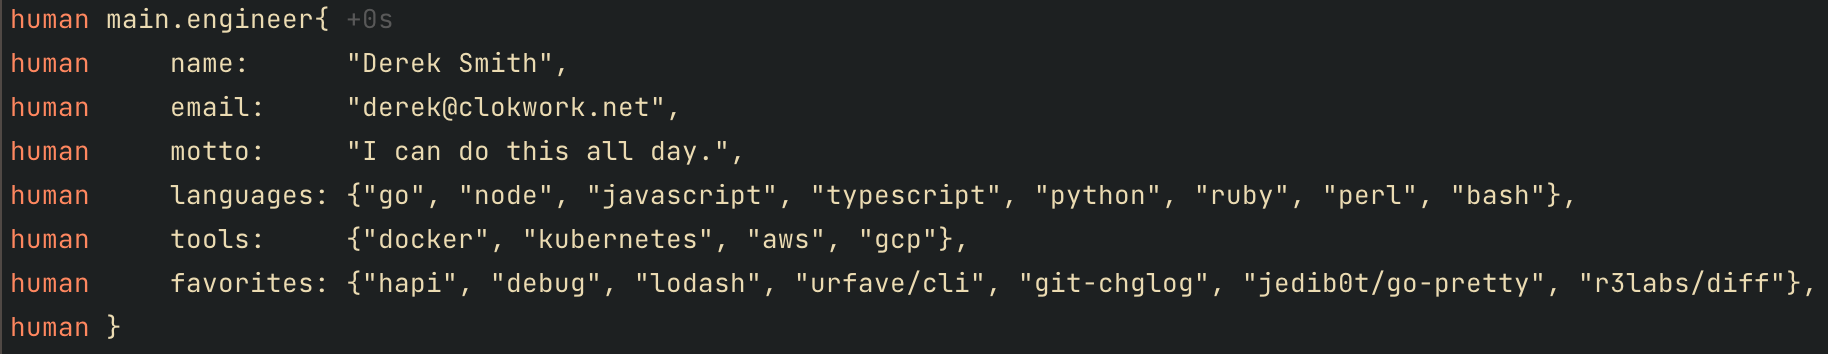
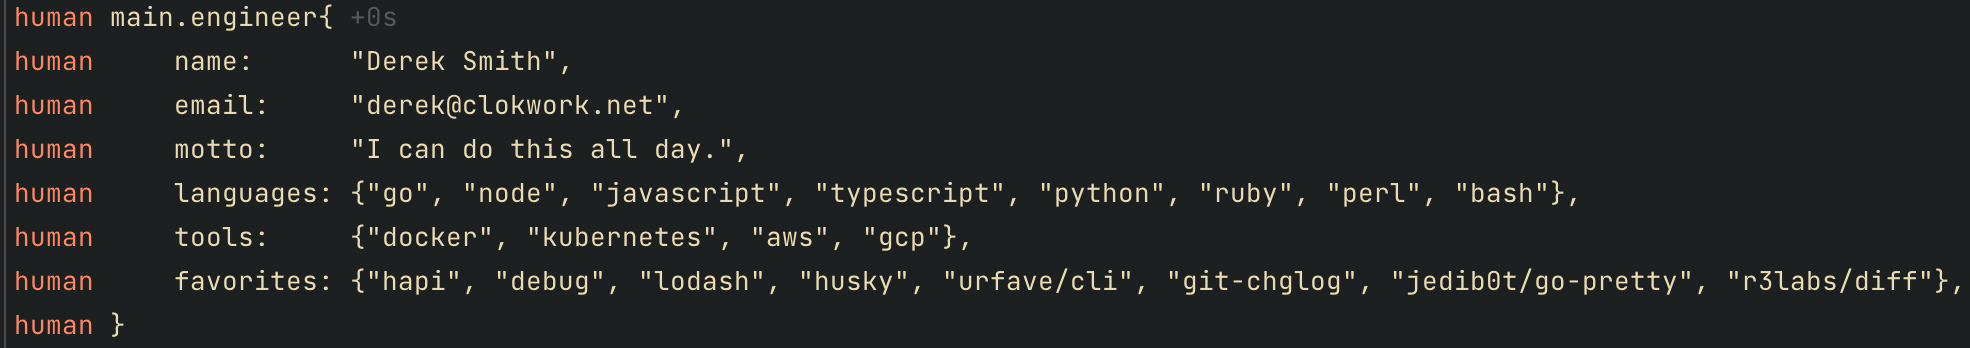
feat: it's time

diff --git a/README.md b/README.md
@@ -1,5 +1,3 @@
-### Hi there 👋
-
 <!--
 **clok/clok** is a ✨ _special_ ✨ repository because its `README.md` (this file) appears on your GitHub profile.
 
@@ -14,3 +12,59 @@ Here are some ideas to get you started:
 - 😄 Pronouns: ...
 - ⚡ Fun fact: ...
 -->
+
+### Howdy! I'm Derek. I could do this all day. <img src="https://cdn.discordapp.com/emojis/778638806877732894.gif" width="25px">
+
+<hr>
+
+<p align=center>
+  <a href="https://github.com/anuraghazra/github-readme-stats" title="Go to Source">
+    <img height=175 align="center" src="https://github-readme-stats.vercel.app/api?username=clok&show_icons=true&theme=gruvbox&count_private=true">
+  </a>
+  <a href="https://github.com/anuraghazra/github-readme-stats">
+  <img height=175 align="center" src="https://github-readme-stats.vercel.app/api/top-langs/?username=clok&theme=gruvbox&layout=compact&count_private=true" />
+  </a>
+</p>
+
+<hr>
+
+```go
+package main
+
+import (
+	"os"
+
+	"github.com/clok/kemba"
+)
+
+var (
+	k = kemba.New("human")
+)
+
+type engineer struct {
+	name      string
+	email     string
+	motto     string
+	languages []string
+	tools     []string
+	favorites []string
+}
+
+func main() {
+	_ = os.Setenv("DEBUG", "human")
+
+	derek := engineer{
+		name:      "Derek Smith",
+		email:     "derek@clokwork.net",
+		motto:     "I can do this all day.",
+		languages: []string{"go", "node", "javascript", "typescript", "python", "ruby", "perl", "bash"},
+		tools:     []string{"docker", "kubernetes", "aws", "gcp"},
+		favorites: []string{"hapi", "debug", "lodash", "husky", "urfave/cli", "git-chglog", "jedib0t/go-pretty", "r3labs/diff"},
+	}
+
+	k.Log(derek)
+	_ = os.Setenv("DEBUG", "")
+}
+```
+
+<img src="https://github.com/clok/clok/blob/main/code-debug.png?raw=true"/>
